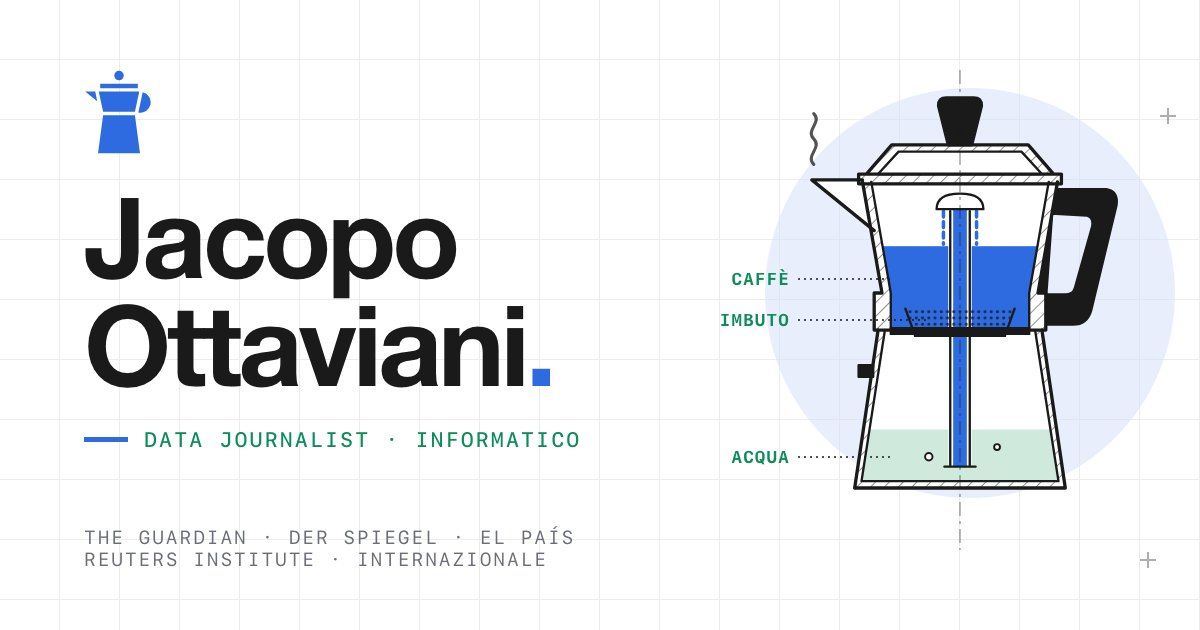
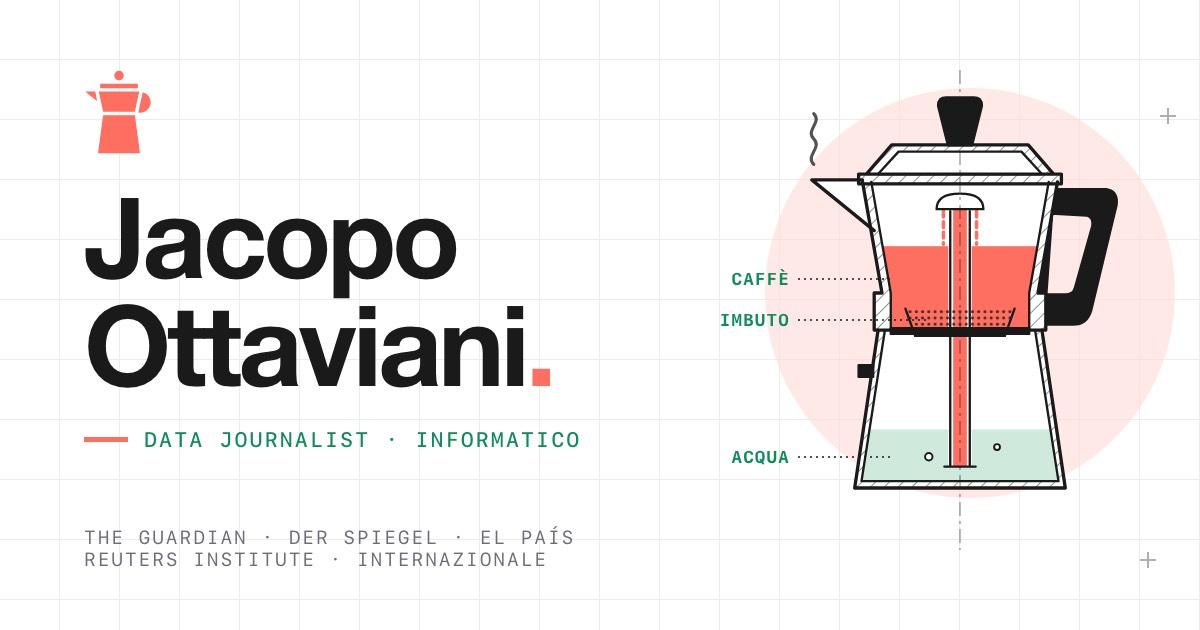
Accent palette: Kandinsky's three Bauhaus colours, coral (PANTONE 16-1546 Living Coral, #FF6F61) as the red and the default, then yellow #E8A317 and cobalt, replace the orange, red, cobalt and ochre row, which had become four warm dots and one blue; the head line falls back to "coral" and now always

diff --git a/assets/accent.js b/assets/accent.js
@@ -1,15 +1,16 @@
-/* Accent colour picker in the menu bar: four dots, cobalt the default, the choice remembered in localStorage.
-   The drawings and the CSS tokens are authored in orange, so orange is the one accent that needs no data-accent;
-   cobalt, the default, is applied like any other pick.
+/* Accent colour picker in the menu bar: Kandinsky's three Bauhaus colours (coral as the red, yellow, cobalt), coral the default,
+   the choice remembered in localStorage. The drawings and the CSS tokens are still authored in orange, which is no longer
+   in the row, so every accent, the default included, is applied as a pick.
    The <head> one-liner has already set <html data-accent> before the first paint; this builds the dots,
    recolours the Moka drawings and the project banners (they are <img>s) and folds the row into one dot when the bar has no room. */
 (function () {
   var ACCENTS = [
     // c accent, t tint (peach); s1, s2 the exploded Moka's shades; x1, x2 the Rome banner's shade and mid-tint
-    { id: "orange", c: "#FF7A29", t: "#FFDCC2", s1: "#E66A1F", s2: "#C45816", x1: "#D9621F", x2: "#F2C3A0", en: "Orange", it: "Arancione" },
-    { id: "red",    c: "#C8102E", t: "#F7DBE0", s1: "#B00E28", s2: "#980C23", x1: "#A60D26", x2: "#DB8C99", en: "Red",    it: "Rosso" },
-    { id: "cobalt", c: "#2F6BE0", t: "#D8E3F9", s1: "#295EC5", s2: "#2451AA", x1: "#2759BA", x2: "#99B3E5", en: "Cobalt", it: "Cobalto" },
-    { id: "ochre",  c: "#C98A00", t: "#F1E2BF", s1: "#B17900", s2: "#996900", x1: "#A77300", x2: "#DBC085", en: "Ochre",  it: "Ocra" }
+    // the tint t sits at L* 90; s1, s2, x1 are the colour times 0.88, 0.76, 0.83; x2 is the colour 55% into white, times 0.95
+    // coral: PANTONE 16-1546 Living Coral, at its usual sRGB conversion
+    { id: "coral",  c: "#FF6F61", t: "#FFDAD7", s1: "#E06255", s2: "#C2544A", x1: "#D45C51", x2: "#F2B5AF", en: "Coral",  it: "Corallo" },
+    { id: "yellow", c: "#E8A317", t: "#F7E0B2", s1: "#CC8F14", s2: "#B07C11", x1: "#C18713", x2: "#E8CB8F", en: "Yellow", it: "Giallo" },
+    { id: "cobalt", c: "#2F6BE0", t: "#D8E3F9", s1: "#295EC5", s2: "#2451AA", x1: "#2759BA", x2: "#99B3E5", en: "Cobalt", it: "Cobalto" }
   ];
   var root = document.documentElement;
   var lang = root.lang === "it" ? "it" : "en";
@@ -20,9 +21,13 @@
 
   function find(id) {
     for (var i = 0; i < ACCENTS.length; i++) if (ACCENTS[i].id === id) return ACCENTS[i];
-    return ACCENTS[0];  // no data-accent: orange, the colours the files are drawn in
+    return ACCENTS[0];  // nothing stored, or a colour that has left the row (orange, red, ochre): coral
   }
-  var current = find(root.getAttribute("data-accent"));
+  var stored = root.getAttribute("data-accent");
+  var current = find(stored);
+  if (current.id !== stored) {
+    try { localStorage.removeItem("accent"); } catch (e) {}  // forget the old colour, so the next visit opens in coral straight away
+  }
 
   /* ---------- Moka drawings and project banners: fetch each SVG once, swap its orange family, show it as a blob ---------- */
   var svgs = {};
@@ -31,10 +36,6 @@
     document.querySelectorAll('img[data-accent-src], img[src*="assets/mokapot/"], img[src*="assets/projects/"]').forEach(function (img) {
       var src = img.getAttribute("data-accent-src") || img.getAttribute("src");
       img.setAttribute("data-accent-src", src);
-      if (a.id === "orange") {
-        if (img.getAttribute("src") !== src) img.src = src;
-        return;
-      }
       svgs[src] = svgs[src] || fetch(src).then(function (r) { if (!r.ok) throw r.status; return r.text(); });
       svgs[src].then(function (txt) {
         if (current !== a) return;  // a newer pick got there first
@@ -50,10 +51,9 @@
 
   function apply(a, remember) {
     current = a;
-    if (a.id === "orange") root.removeAttribute("data-accent");
-    else root.setAttribute("data-accent", a.id);
+    root.setAttribute("data-accent", a.id);
     if (remember) {
-      try { localStorage.setItem("accent", a.id); } catch (e) {}  // orange is stored too: nothing stored now means cobalt
+      try { localStorage.setItem("accent", a.id); } catch (e) {}
     }
     paintImages();
   }
@@ -115,7 +115,7 @@
     dots[i].focus();
   });
 
-  /* ---------- folded: one dot that opens the four in a box hanging from the bar ---------- */
+  /* ---------- folded: one dot that opens the three in a box hanging from the bar ---------- */
   function open() {
     menu.style.top = (nav.getBoundingClientRect().bottom - li.getBoundingClientRect().top - 2) + "px";
     pick.classList.add("open");
@@ -164,7 +164,7 @@
   if (document.fonts && document.fonts.ready) document.fonts.ready.then(refit);
   window.addEventListener("load", refit);
 
-  apply(current, false);  // also clears a stale or unknown stored id
+  apply(current, false);
   sync();
   fit();
 })();

diff --git a/it/index.html b/it/index.html
@@ -31,7 +31,7 @@
 <meta property="og:title" content="Jacopo Ottaviani — Data Journalist">
 <meta property="og:description" content="Storie costruite con codice, dati, mappe e AI — pubblicate su The Guardian, Der Spiegel, El País, Reuters e altri.">
 <meta property="og:url" content="https://jacopoottaviani.com/it/">
-<meta property="og:image" content="https://jacopoottaviani.com/assets/og-image-it.jpg?v=2026-10-22">
+<meta property="og:image" content="https://jacopoottaviani.com/assets/og-image-it.jpg?v=2026-10-31">
 <meta property="og:image:width" content="1200">
 <meta property="og:image:height" content="630">
 <meta property="og:image:type" content="image/jpeg">
@@ -44,7 +44,7 @@
 <meta name="twitter:creator" content="@JacopoOttaviani">
 <meta name="twitter:title" content="Jacopo Ottaviani — Data Journalist">
 <meta name="twitter:description" content="Storie costruite con codice, dati, mappe e AI — pubblicate su The Guardian, Der Spiegel, El País, Reuters e altri.">
-<meta name="twitter:image" content="https://jacopoottaviani.com/assets/og-image-it.jpg?v=2026-10-22">
+<meta name="twitter:image" content="https://jacopoottaviani.com/assets/og-image-it.jpg?v=2026-10-31">
 <meta name="twitter:image:alt" content="Jacopo Ottaviani, data journalist e informatico, accanto al disegno tecnico di una moka in sezione, con il caffè che sale lungo la colonna nel raccoglitore.">
 
 <!-- ═══ STRUCTURED DATA ═══ -->
@@ -72,9 +72,9 @@
 <meta name="description:extended" content="Jacopo Ottaviani è un data journalist senior e informatico italiano. Produce storie investigative data-driven pubblicate a livello internazionale su The Guardian, Der Spiegel, El País, Internazionale, Daily Maverick, Reuters, Columbia Journalism Review e UNDP. Ha vinto il Lorenzo Natali Media Prize, i Sigma Awards, i Data Journalism Awards e l'European Press Prize. Ha una profonda esperienza nello sviluppo internazionale, applicando data science, cartografia digitale e linguistica computazionale al giornalismo umanitario. È Chief Data Officer di Code for Africa, usa l'AI e i flussi di lavoro con agenti in ogni fase del suo data journalism, scrive una serie di saggi in prima persona su AI e giornalismo per il Reuters Institute for the Study of Journalism (Università di Oxford) e forma giornalisti e organizzazioni in tutto il mondo sull'uso dell'AI nel data journalism.">
 <link rel="llms.txt" href="/llms.txt">
 <link rel="preload" href="/assets/fonts/jost-latin.woff2" as="font" type="font/woff2" crossorigin>
-<link rel="stylesheet" href="/assets/accent.css">
-<script>try{var a=localStorage.getItem("accent")||"cobalt";if(a!=="orange")document.documentElement.setAttribute("data-accent",a)}catch(e){document.documentElement.setAttribute("data-accent","cobalt")}</script>
-<script src="/assets/accent.js?v=2026-10-22" defer></script>
+<link rel="stylesheet" href="/assets/accent.css?v=2026-10-31">
+<script>try{document.documentElement.setAttribute("data-accent",localStorage.getItem("accent")||"coral")}catch(e){document.documentElement.setAttribute("data-accent","coral")}</script>
+<script src="/assets/accent.js?v=2026-10-31" defer></script>
 <style>
 :root {
   --ink: #1A1A1A;

diff --git a/index.html b/index.html
@@ -32,7 +32,7 @@
 <meta property="og:title" content="Jacopo Ottaviani — Data Journalist">
 <meta property="og:description" content="Stories built with code, data, maps and AI — published in The Guardian, Der Spiegel, El País, Reuters and more.">
 <meta property="og:url" content="https://jacopoottaviani.com/">
-<meta property="og:image" content="https://jacopoottaviani.com/assets/og-image.jpg?v=2026-10-22">
+<meta property="og:image" content="https://jacopoottaviani.com/assets/og-image.jpg?v=2026-10-31">
 <meta property="og:image:width" content="1200">
 <meta property="og:image:height" content="630">
 <meta property="og:image:type" content="image/jpeg">
@@ -45,7 +45,7 @@
 <meta name="twitter:creator" content="@JacopoOttaviani">
 <meta name="twitter:title" content="Jacopo Ottaviani — Data Journalist">
 <meta name="twitter:description" content="Stories built with code, data, maps and AI — published in The Guardian, Der Spiegel, El País, Reuters and more.">
-<meta name="twitter:image" content="https://jacopoottaviani.com/assets/og-image.jpg?v=2026-10-22">
+<meta name="twitter:image" content="https://jacopoottaviani.com/assets/og-image.jpg?v=2026-10-31">
 <meta name="twitter:image:alt" content="Jacopo Ottaviani, data journalist and computer scientist, next to a technical drawing of a Moka pot cut in half, the coffee rising up the column into the top chamber.">
 
 <!-- ═══ STRUCTURED DATA ═══ -->
@@ -75,9 +75,9 @@
 <meta name="description:extended" content="Jacopo Ottaviani is a senior Italian data journalist and computer scientist. He produces investigative data-driven stories published internationally in The Guardian, Der Spiegel, El País, Internazionale, Daily Maverick, Reuters, Columbia Journalism Review, and UNDP. He has won the Lorenzo Natali Media Prize, Sigma Awards, Data Journalism Awards, and European Press Prize. He has deep expertise in international development, applying data science, digital cartography, and computational linguistics to humanitarian and development storytelling. He is Chief Data Officer at Code for Africa, uses AI and agentic workflows at every stage of his data journalism, writes a first-person essay series on AI in journalism for the Reuters Institute for the Study of Journalism (University of Oxford), and trains journalists and organisations worldwide on using AI in data journalism.">
 <link rel="llms.txt" href="/llms.txt">
 <link rel="preload" href="/assets/fonts/jost-latin.woff2" as="font" type="font/woff2" crossorigin>
-<link rel="stylesheet" href="/assets/accent.css">
-<script>try{var a=localStorage.getItem("accent")||"cobalt";if(a!=="orange")document.documentElement.setAttribute("data-accent",a)}catch(e){document.documentElement.setAttribute("data-accent","cobalt")}</script>
-<script src="/assets/accent.js?v=2026-10-22" defer></script>
+<link rel="stylesheet" href="/assets/accent.css?v=2026-10-31">
+<script>try{document.documentElement.setAttribute("data-accent",localStorage.getItem("accent")||"coral")}catch(e){document.documentElement.setAttribute("data-accent","coral")}</script>
+<script src="/assets/accent.js?v=2026-10-31" defer></script>
 <style>
 :root {
   --ink: #1A1A1A;

diff --git a/it/teaching.html b/it/teaching.html
@@ -31,7 +31,7 @@
 <meta property="og:title" content="Workshop e Formazione — Jacopo Ottaviani">
 <meta property="og:description" content="Mappe e data visualisation, IA per il data journalism, e come vincere i grant giornalistici. Formazione pratica per aziende, organizzazioni e università.">
 <meta property="og:url" content="https://jacopoottaviani.com/it/teaching.html">
-<meta property="og:image" content="https://jacopoottaviani.com/assets/og-image-it.jpg?v=2026-10-22">
+<meta property="og:image" content="https://jacopoottaviani.com/assets/og-image-it.jpg?v=2026-10-31">
 <meta property="og:image:width" content="1200">
 <meta property="og:image:height" content="630">
 <meta property="og:image:type" content="image/jpeg">
@@ -44,7 +44,7 @@
 <meta name="twitter:creator" content="@JacopoOttaviani">
 <meta name="twitter:title" content="Workshop e Formazione — Jacopo Ottaviani">
 <meta name="twitter:description" content="Mappe e data visualisation, IA per il data journalism, e come vincere i grant giornalistici. Formazione pratica per aziende, organizzazioni e università.">
-<meta name="twitter:image" content="https://jacopoottaviani.com/assets/og-image-it.jpg?v=2026-10-22">
+<meta name="twitter:image" content="https://jacopoottaviani.com/assets/og-image-it.jpg?v=2026-10-31">
 <meta name="twitter:image:alt" content="Jacopo Ottaviani, data journalist e informatico, accanto al disegno tecnico di una moka in sezione, con il caffè che sale lungo la colonna nel raccoglitore.">
 
 <!-- ═══ STRUCTURED DATA ═══ -->
@@ -59,9 +59,9 @@
 </script>
 
 <link rel="preload" href="/assets/fonts/jost-latin.woff2" as="font" type="font/woff2" crossorigin>
-<link rel="stylesheet" href="/assets/accent.css">
-<script>try{var a=localStorage.getItem("accent")||"cobalt";if(a!=="orange")document.documentElement.setAttribute("data-accent",a)}catch(e){document.documentElement.setAttribute("data-accent","cobalt")}</script>
-<script src="/assets/accent.js?v=2026-10-22" defer></script>
+<link rel="stylesheet" href="/assets/accent.css?v=2026-10-31">
+<script>try{document.documentElement.setAttribute("data-accent",localStorage.getItem("accent")||"coral")}catch(e){document.documentElement.setAttribute("data-accent","coral")}</script>
+<script src="/assets/accent.js?v=2026-10-31" defer></script>
 <style>
 :root {
   --board: #0C3B2A;          /* chalkboard green — the dark cousin of the homepage's #0E8C5A */

diff --git a/teaching.html b/teaching.html
@@ -32,7 +32,7 @@
 <meta property="og:title" content="Workshops &amp; Teaching — Jacopo Ottaviani">
 <meta property="og:description" content="Mapping &amp; data visualisation, AI for data journalism, and winning journalism grants. Hands-on training for companies, organisations and universities.">
 <meta property="og:url" content="https://jacopoottaviani.com/teaching.html">
-<meta property="og:image" content="https://jacopoottaviani.com/assets/og-image.jpg?v=2026-10-22">
+<meta property="og:image" content="https://jacopoottaviani.com/assets/og-image.jpg?v=2026-10-31">
 <meta property="og:image:width" content="1200">
 <meta property="og:image:height" content="630">
 <meta property="og:image:type" content="image/jpeg">
@@ -45,7 +45,7 @@
 <meta name="twitter:creator" content="@JacopoOttaviani">
 <meta name="twitter:title" content="Workshops &amp; Teaching — Jacopo Ottaviani">
 <meta name="twitter:description" content="Mapping &amp; data visualisation, AI for data journalism, and winning journalism grants. Hands-on training for companies, organisations and universities.">
-<meta name="twitter:image" content="https://jacopoottaviani.com/assets/og-image.jpg?v=2026-10-22">
+<meta name="twitter:image" content="https://jacopoottaviani.com/assets/og-image.jpg?v=2026-10-31">
 <meta name="twitter:image:alt" content="Jacopo Ottaviani, data journalist and computer scientist, next to a technical drawing of a Moka pot cut in half, the coffee rising up the column into the top chamber.">
 
 <!-- ═══ STRUCTURED DATA ═══ -->
@@ -60,9 +60,9 @@
 </script>
 
 <link rel="preload" href="/assets/fonts/jost-latin.woff2" as="font" type="font/woff2" crossorigin>
-<link rel="stylesheet" href="/assets/accent.css">
-<script>try{var a=localStorage.getItem("accent")||"cobalt";if(a!=="orange")document.documentElement.setAttribute("data-accent",a)}catch(e){document.documentElement.setAttribute("data-accent","cobalt")}</script>
-<script src="/assets/accent.js?v=2026-10-22" defer></script>
+<link rel="stylesheet" href="/assets/accent.css?v=2026-10-31">
+<script>try{document.documentElement.setAttribute("data-accent",localStorage.getItem("accent")||"coral")}catch(e){document.documentElement.setAttribute("data-accent","coral")}</script>
+<script src="/assets/accent.js?v=2026-10-31" defer></script>
 <style>
 :root {
   --board: #0C3B2A;          /* chalkboard green — the dark cousin of the homepage's #0E8C5A */

diff --git a/assets/accent.css b/assets/accent.css
@@ -1,9 +1,9 @@
-/* Accent colour: the visitor picks one of four dots in the menu bar (assets/accent.js); cobalt is the default.
-   A one-line script in <head> sets <html data-accent="…"> from localStorage before the first paint, "cobalt" when nothing is stored;
-   orange, the colour the pages and drawings are authored in, is the one pick that leaves data-accent off. */
-:root[data-accent="red"]    { --orange: #C8102E; --peach: #F7DBE0; }
+/* Accent colour: the visitor picks one of three dots in the menu bar (assets/accent.js), Kandinsky's Bauhaus colours; coral is the default.
+   A one-line script in <head> sets <html data-accent="…"> from localStorage before the first paint, "coral" when nothing is stored.
+   The pages and drawings are still authored in orange, and every accent replaces it. */
+:root[data-accent="coral"]  { --orange: #FF6F61; --peach: #FFDAD7; }  /* PANTONE 16-1546 Living Coral */
+:root[data-accent="yellow"] { --orange: #E8A317; --peach: #F7E0B2; }
 :root[data-accent="cobalt"] { --orange: #2F6BE0; --peach: #D8E3F9; }
-:root[data-accent="ochre"]  { --orange: #C98A00; --peach: #F1E2BF; }
 
 /* inline SVGs drawn in the accent (logo dot, Keywords mosaic, workshops lid, footer Moka) follow the tokens */
 [fill="#FF7A29" i]   { fill: var(--orange); }
